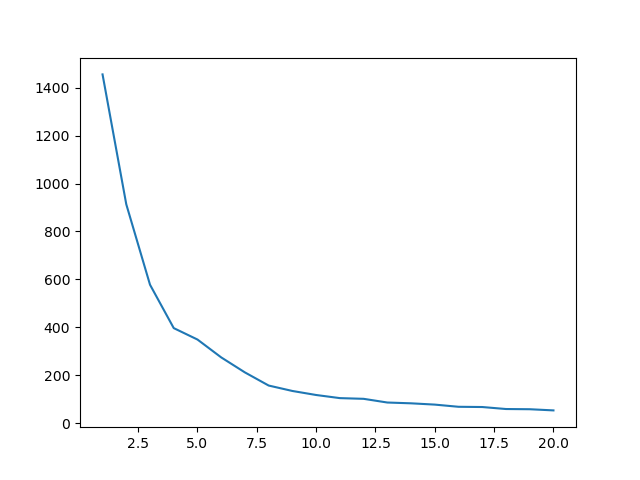
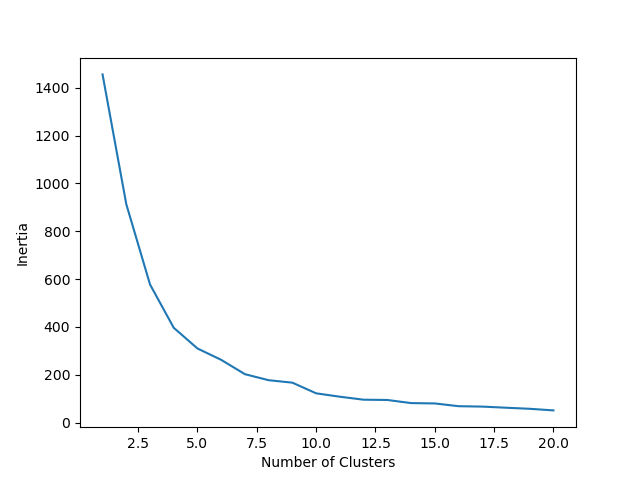
Improved the visuals for the readme file.

diff --git a/Kmeans.py b/Kmeans.py
@@ -12,7 +12,7 @@ points = p.gen_sphere_projection(X)
 
 # For each amount of clusters, display the inertia of the clustering
 # By definition, inertia will always decrease, so we're looking for where that rate of change
-# is slowing down, which is around n_clusters=9
+# is slowing down, which is around n_clusters=6
 inertia = np.zeros(20)
 for i in range(1,21):
     kmeans = KMeans(n_clusters=i)
@@ -21,6 +21,8 @@ for i in range(1,21):
     inertia[i-1] = kmeans.inertia_
 
 plt.plot(range(1,21), inertia)
+plt.xlabel("Number of Clusters")
+plt.ylabel("Inertia")
 plt.savefig("Images/Inertia Graph.png")
 plt.show()
 

diff --git a/DistanceGraph.py b/DistanceGraph.py
@@ -28,5 +28,7 @@ distances = np.sort(distances[:, -1])
 
 # Plot the distance graph
 plt.plot(distances)
+plt.xlabel("Number of Points Within Epsilon")
+plt.ylabel("Epsilon")
 plt.savefig("Images/DistanceGraphDBSCAN.png")
 plt.show()
